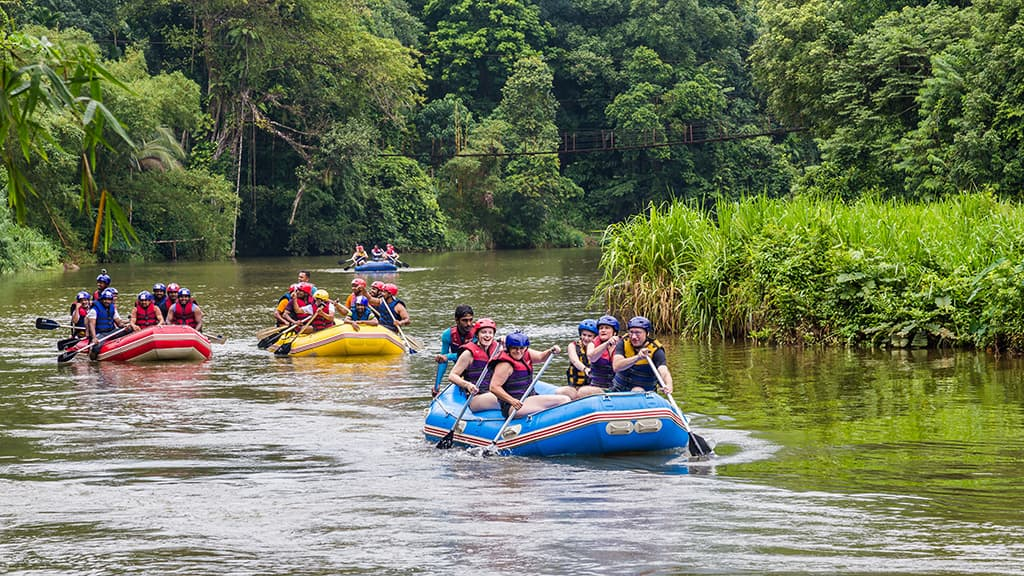
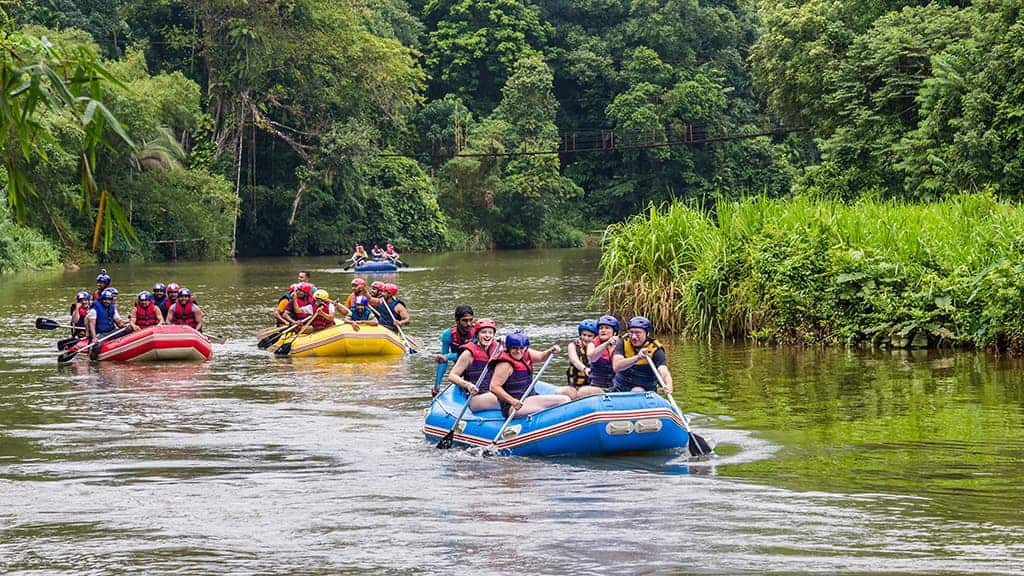
Final touches on Water Rafting Page

diff --git a/wwr/styles/rafting.css b/wwr/styles/rafting.css
@@ -29,7 +29,6 @@ h2 {
 
 nav,
 p,
-section,
 article {
     margin: 10px;
     padding: 5px;
@@ -96,10 +95,12 @@ header img {
 
 .adventure {
     display: grid;
+    place-items: center;
     width: 100%;
     grid-template-columns: 1fr 1fr 1fr 1fr 1fr;
-    background-color: rgb(181, 177, 177);
-    gap: 0.3rem;
+    background-color: rgb(215, 210, 210);
+    padding: 10px 0 10px;
+    margin-bottom: 10px;
 
 }
 
@@ -112,37 +113,40 @@ header img {
 }
 
 .adventure img {
-    width: 140px;
+    width: 145px;
+    height: 110px;
+    border: 2px solid rgba(0, 0, 0, 0.265);
+    border-radius: 5px;
 }
 
-section {
+.history {
     display: grid;
+    place-items: center;
     grid-template-columns: 1fr 1fr 1fr;
     background-color: rgb(164, 196, 191);
     width: 100%;
-    margin-left: 0;
+    margin: 10px 0;
+    padding: 25px 0;
 
 }
 
-section h2 {
+.history h2 {
     grid-column: 1/-1;
     text-align: center;
     align-self: center;
-    margin: 20px;
-    padding: 20px;
+    margin-bottom: 10px;
 }
 
-section img {
+.history img {
     width: 250px;
     height: 150px;
-    padding: 5px;
-    border: 2px solid rgba(0, 0, 0, 0.325);
-    background-color: gray;
+    border: 2px solid rgba(0, 0, 0, 0.144);
     border-radius: 5px;
 }
 
 figcaption {
     font-size: smaller;
+    margin-bottom: 50px;
 
 }
 
@@ -150,9 +154,9 @@ footer {
     display: flex;
     background-color: rgba(3, 3, 3, 0.781);
     color: white;
-    margin-bottom: 20px;
     align-items: center;
     justify-content: center;
+    margin-bottom: 10px;
 }
 
 footer img {

diff --git a/wwr/about.html b/wwr/about.html
@@ -35,7 +35,7 @@
             </article>
         </div>
 
-        <section>
+        <div class="history">
             <h2>History</h2>
             <p>Mountain View Rafting Company was established in 1992 by two partners.
                 The company had one office by then, but grew to be a multinational company with over
@@ -45,9 +45,9 @@
             <p>The company started by offering only one service ot touring water bodies.
                 As of 2020, more services were added including lodging and restaurants for those who
                 wish to spend more days.</p>
-        </section>
+        </div>
 
-        <section class="adventure">
+        <div class="adventure">
             <h2>Adventure Awaits you!</h2>
             <figure>
                 <img src="images/kayakis.jpg" alt="kayaki in water">
@@ -69,8 +69,7 @@
                 <img src="images/kayaki-fi.jpg" alt="kayaki in water 5">
                 <figcaption>Fear not to try new things</figcaption>
             </figure>
-
-        </section>
+        </div>
     </main>
     <footer>
         <p>&copy; 2026 | Mountain View Rafting Company | Phinias O. Nyambita</p>
